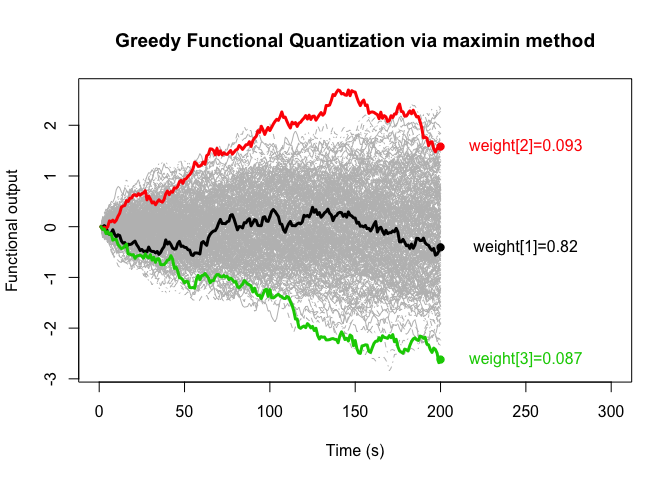
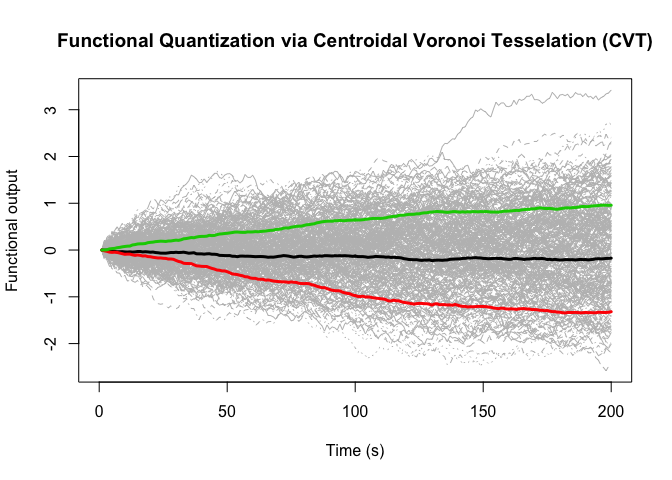
my changes

diff --git a/README.md b/README.md
@@ -5,7 +5,7 @@ Reda El Amri
 
 ## Description
 
-This package contains functions that provide a greedy functional quantization and also the optimal grid (one shot algorithm). See my paper for more details: **Data-driven stochastic inversion via functional quantization** \[<https://link.springer.com/article/10.1007/s11222-019-09888-8>\].
+This package contains functions that provide a greedy functional quantization and also the optimal grid (see my paper for more details: **Data-driven stochastic inversion via functional quantization** \[<https://link.springer.com/article/10.1007/s11222-019-09888-8>\]).
 
 ## R functions
 
@@ -14,14 +14,26 @@ You can also embed plots, for example:
 ``` r
 data <- t(BM(N = 200 - 1, M = 300))
 size <- 3
-mKL <- 2
-quant <- GFQ(data,mKL,size,method="maximin",deepstart=TRUE)
+quant <- CVT(data,size,iter=22)
 ```
 
 ![](Readme_files/figure-markdown_github/unnamed-chunk-3-1.png)
 
 ``` r
-quant <- GFQ(data,mKL,size,method="L2",deepstart=TRUE)
+mKL <- 2
+quant <- StochGradient(data,mKL,size)
 ```
 
 ![](Readme_files/figure-markdown_github/unnamed-chunk-5-1.png)
+
+``` r
+quant <- GFQ(data,mKL,size,method="maximin",deepstart=TRUE)
+```
+
+![](Readme_files/figure-markdown_github/unnamed-chunk-7-1.png)
+
+``` r
+quant <- GFQ(data,mKL,size,method="L2",deepstart=TRUE)
+```
+
+![](Readme_files/figure-markdown_github/unnamed-chunk-9-1.png)
